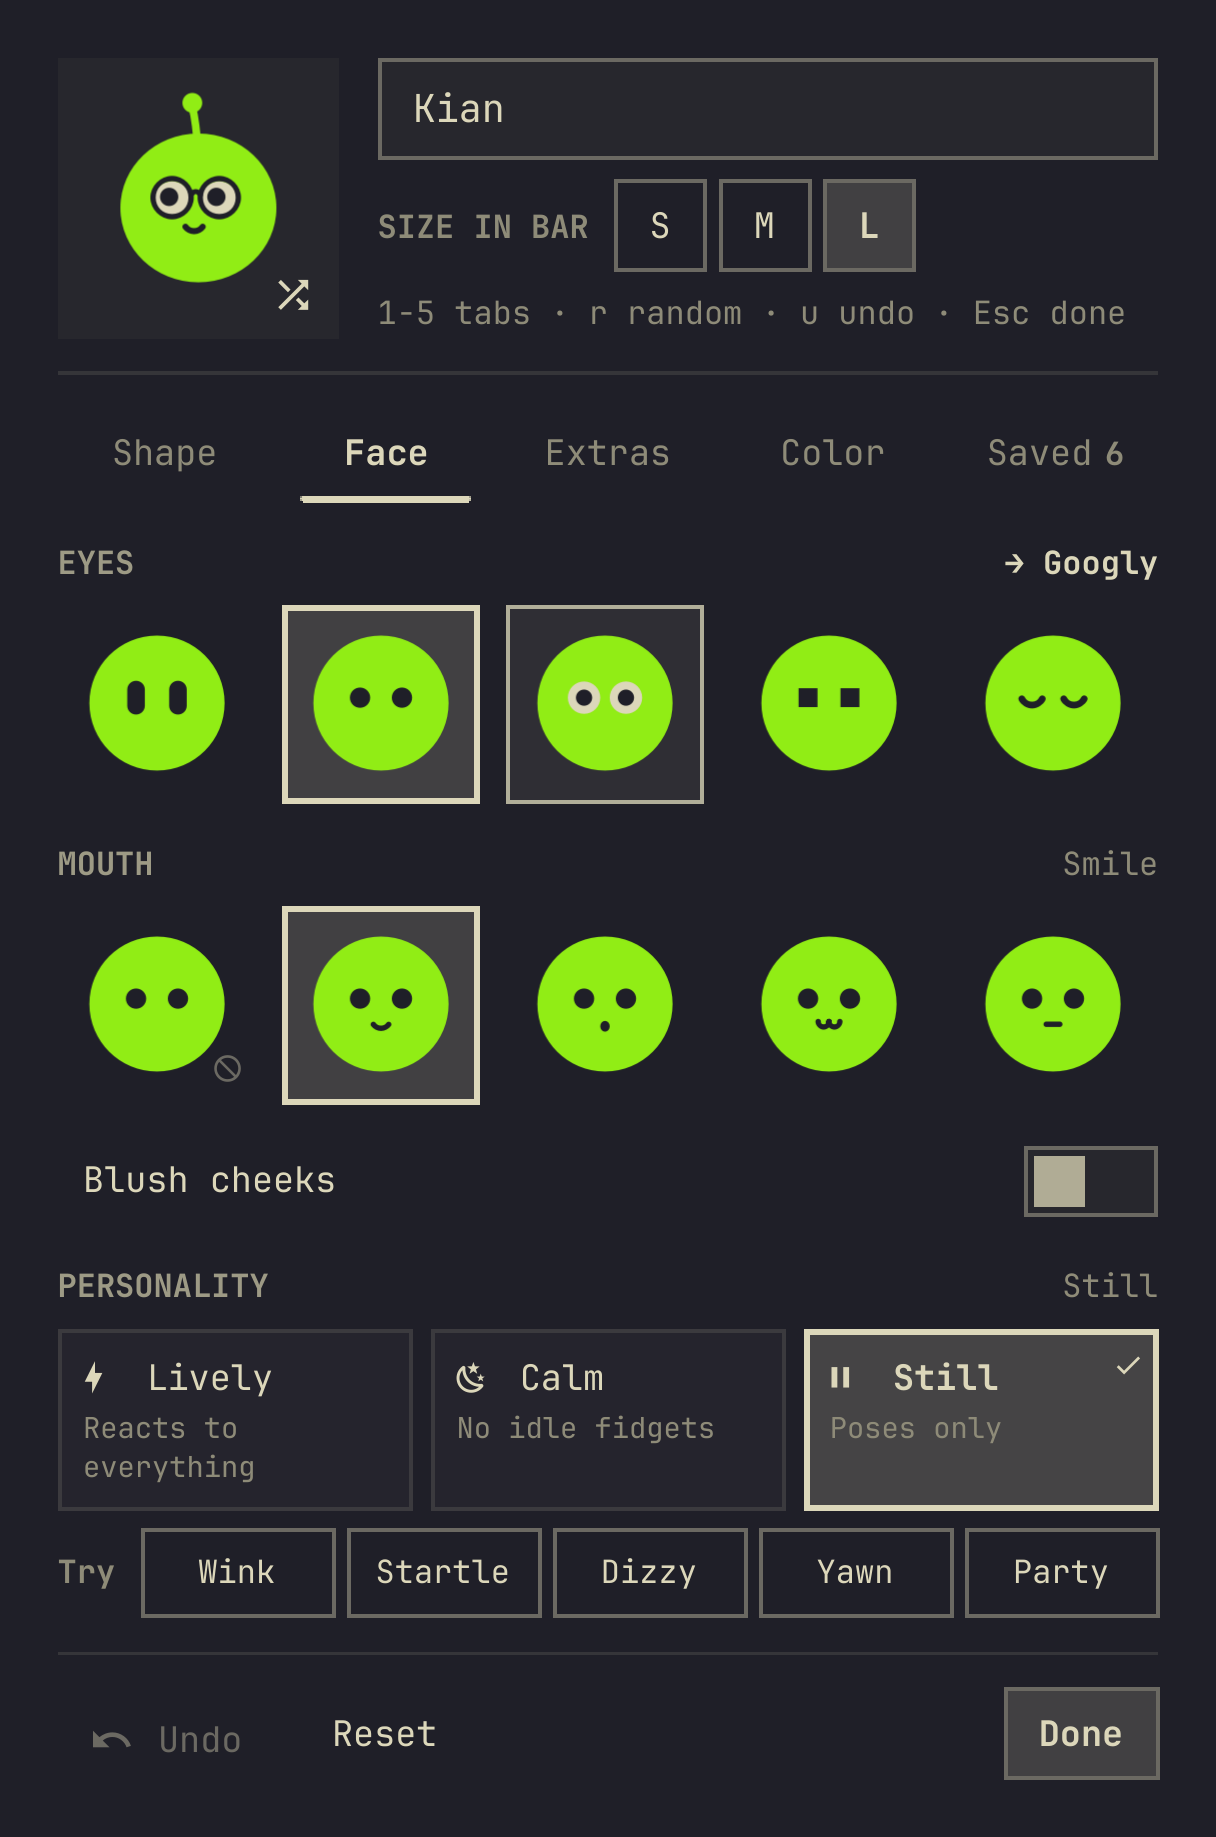
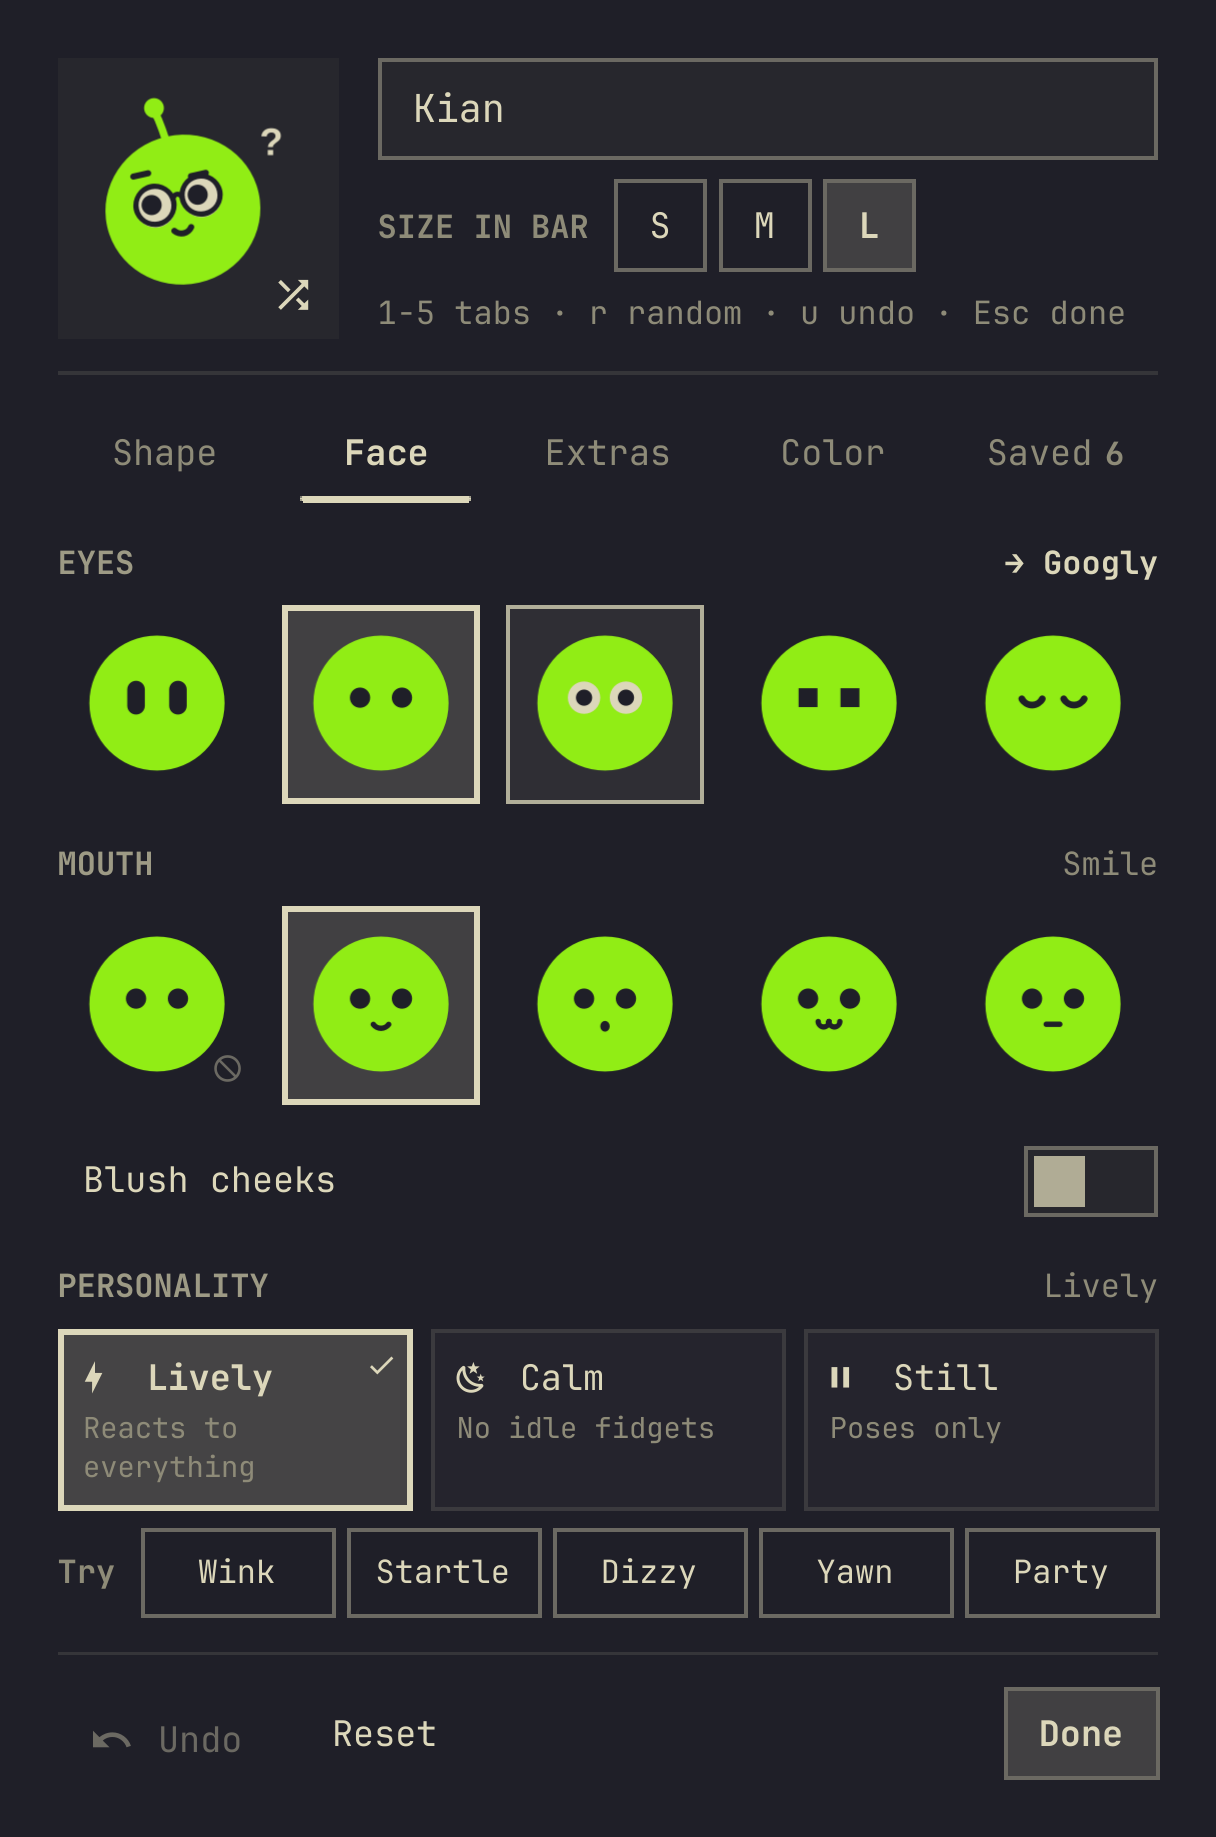
Release 2.1.0: changelog, README matches the code, fresh docs
- manifest: version 2.1.0
- CHANGELOG.md: 2.0.0 (Agents Pet rename + pet) and 2.1.0 (reactions,
  Pet Studio settings, personality, backup / PNG, one-line tip, dev harness)
- README: one-line tip under the name, Pet Studio layout, Try row labels,
  XDG Documents / Pictures for backup and PNG, Ctrl+Z / Backspace keys,
  per-tab editor images, `dev/run.sh check`, privacy covers backup and PNG
- docs/: regenerated with dev/run.sh docs

Changed region(s): [[0.6562, 0.6826, 0.9688, 0.8378], [0.0312, 0.7137, 0.3438, 0.8378], [0.0625, 0.031, 0.25, 0.1551]]

diff --git a/README.md b/README.md
@@ -28,37 +28,41 @@ reshape it however you like.
   tired ("z") when every subscription is maxed out, and a small confetti party when one
   comes back. Its color never changes; the limit bars still turn red as usual.
 - **Seasonal hats**: a Santa hat on Dec 24–25 and a party hat on Dec 31 / Jan 1.
-- **One calm tip banner**: live insights first (a limit near or at its cap with its reset
-  time, a quieter subscription to switch to, tokens today and per session, a late-night
-  nudge), then a pool of general tips for working with agents. It rotates slowly, pauses
-  while you hover it, and the › button jumps to the next tip.
-- **Pet settings**: click the gear in the panel header. A stage with the pet, its name and
-  its size in the bar (S / M / L) sit on top; five tabs below:
+- **One calm tip line** under the pet's name: live insights first (a limit near or at its
+  cap with its reset time, a quieter subscription to switch to, tokens today and per session,
+  a late-night nudge), then a pool of general tips for working with agents. It shows one
+  line; hover it to read the whole tip (rotation pauses meanwhile), and the › button jumps
+  to the next one. Limit alerts are shown in red.
+- **Pet settings** ("Pet Studio"): click the gear in the panel header. A stage with the
+  pet and a random (shuffle) button, its name and its size in the bar (S / M / L) sit on
+  top; five tabs below, and Undo / Reset / Done at the bottom:
   - **Shape**: body (blob, orb, squircle, drop, ghost) and style (solid or outline)
   - **Face**: eyes (capsule, dots, googly, pixel, sleepy), mouth (none, smile, surprised,
     cat, flat), blush cheeks, and the **personality**: Lively (every reaction and little
-    fidgets), Calm (reacts to you, no idle fidgets) or Still (poses only, no animation),
-    with buttons to try a few reactions on the stage
+    fidgets), Calm (reacts to you, no idle fidgets) or Still (poses only, no animated
+    reactions); a **Try** row plays Wink, Startle, Dizzy, Yawn and Party (celebrate) on the stage
   - **Extras**: head (antenna, leaf, ears, horns) and accessory (glasses, top hat, beanie,
     bow, flower)
   - **Color**: your current theme's colors (they follow theme switches), or any color from
     the custom picker / a hex code
   - **Saved**: keep the pets you make (up to 24) and wear them again in one click; copy /
     paste a pet as a short JSON code; **Back up all** writes the current pet, saved pets,
-    size and personality to `~/Documents/agents-pet-backup.json` (or `~/` when there is no
-    Documents folder) and **Restore** reads it back; **Save PNG** saves the pet as a
-    transparent 1024 px image in `~/Pictures/agents-pet-<name>.png`
+    size and personality to `agents-pet-backup.json` in your Documents folder (the XDG one,
+    usually `~/Documents`, or `~/` when there is none) and **Restore** reads it back with
+    the same checks as a pasted code; **Save PNG** saves the pet as a transparent 1024 px
+    image `agents-pet-<name>.png` in your Pictures folder (XDG, usually `~/Pictures`)
 
-  Pointing at an option tries it on the stage; a click commits it. 🎲 rolls a random look,
+  Pointing at an option tries it on the stage; a click commits it. The shuffle button rolls a random look,
   Reset goes back to the default, and Undo puts back the last random roll, reset, worn,
   removed, pasted or restored pet. The keyboard works too: arrows / hjkl move, Enter picks,
-  1-5 or [ ] switch tabs, r random, u undo, s save, c / v copy / paste a code, e edit the
-  name, x or Delete removes a saved pet, and Esc steps back (picker, then the editor, then
+  1-5 or [ ] switch tabs, r random, u (or Ctrl+Z) undo, s save, c / v copy / paste a code,
+  e edit the name, x, Delete or Backspace removes a saved pet, and Esc steps back (picker, then the editor, then
   the panel).
 
   Changes apply live and are saved to `~/.config/omarchy/agents-pet.json`.
 
-<p align="center"><img src="docs/sheet.png" width="520" alt="Bodies, eyes, head extras, accessories, moods and reactions">&nbsp;<img src="docs/editor.png" width="260" alt="Pet settings, Face tab: eye and mouth chips, blush cheeks and personality"></p>
+<p align="center"><img src="docs/sheet.png" width="520" alt="Bodies, eyes, head extras, accessories, moods and reactions">&nbsp;<img src="docs/editor.png" width="260" alt="Pet settings, Face tab: eye and mouth chips, blush cheeks, personality and the Try row"></p>
+<p align="center"><img src="docs/editor-shape.png" width="200" alt="Shape tab">&nbsp;<img src="docs/editor-extras.png" width="200" alt="Extras tab">&nbsp;<img src="docs/editor-color.png" width="200" alt="Color tab">&nbsp;<img src="docs/editor-saved.png" width="200" alt="Saved tab: saved pets, codes, backup and PNG"></p>
 
 The panel follows Omarchy's language setting: the stock panel strings ship in all 50
 Omarchy languages, and the pet's own strings in English and Brazilian Portuguese.
@@ -87,7 +91,7 @@ size-vertical = 32
 
 | Where | What |
 |---|---|
-| Gear button in the panel | Pet look, name, size and saved pets (`~/.config/omarchy/agents-pet.json`) |
+| Gear button in the panel | Pet look, name, size, personality and saved pets (`~/.config/omarchy/agents-pet.json`) |
 | Widget settings / `shell.json` → `companionName` | Fallback name when the settings haven't set one |
 | Widget settings / `shell.json` → `refreshIntervalSec`, `sync*` | Same as the stock Agents panel |
 
@@ -99,9 +103,13 @@ yawn, wake, startle, curious, dizzy, wink, sneeze, thinking, oof, sigh).
 
 The pet adds no network calls. What it touches:
 
-- `~/.config/omarchy/agents-pet.json` (your pet), and the clipboard only when you press
-  **Copy code** / **Paste code** (`wl-copy` / `wl-paste`). The code holds only the pet's name
-  and look; pasted codes are checked against the known options before use.
+- `~/.config/omarchy/agents-pet.json` (your pet, saved pets, size and personality).
+- The clipboard, only when you press **Copy code** / **Paste code** (`wl-copy` /
+  `wl-paste`). The code holds only the pet's name and look; pasted codes are checked
+  against the known options before use.
+- `agents-pet-backup.json` in your Documents folder, only when you press **Back up all**
+  (write) or **Restore** (read). Restored backups get the same checks as pasted codes.
+- `agents-pet-<name>.png` in your Pictures folder, only when you press **Save PNG**.
 
 Usage numbers come from Omarchy's own stock collectors (`omarchy-agent-usage-*`), the same
 ones the stock Agents panel runs. They read each agent's local credential files (for example
@@ -126,7 +134,7 @@ ColorPicker.qml    saturation/value square + hue strip
 ThemePalette.qml   reads the current theme's named colors
 Main.qml, Agent.qml, assets/   stock Agents plugin pieces
 i18n/              strings (stock panel strings in 50 languages, pet strings en + pt-BR)
-dev/               isolated harness (run.sh), deploy.sh
+dev/               isolated harness (run.sh, Harness.qml), deploy.sh
 docs/              images generated by dev/run.sh
 ```
 
@@ -142,9 +150,14 @@ dev/run.sh preview      # separate Quickshell instance with the pet and its sett
 dev/run.sh editor face  # docs/editor-face.png (any tab: shape face extras color saved)
 dev/run.sh png          # checks Save PNG, backup / restore and the editor's keys (temp folder)
 dev/run.sh docs         # regenerate the images in docs/
+dev/run.sh check        # compile every type, Panel.qml included
 git commit -am "..."    # then, when it is done:
 dev/deploy.sh           # fast-forward the installed plugin to HEAD
 ```
+
+## Changes
+
+See [CHANGELOG.md](CHANGELOG.md).
 
 ## Credits
 

diff --git a/CHANGELOG.md b/CHANGELOG.md
@@ -1,0 +1,77 @@
+# Changelog
+
+## 2.1.0 (2026-11-09)
+
+### Reactions
+
+- The pet's face is now driven by an expression model (`PetFace.js`) and reactions are data
+  clips (`PetClips.js`) played one at a time by `FacePlayer.qml`, with priorities and
+  cooldowns.
+- New reactions: yawn and doze off, wake-up stretch, startle (cursor rushing at it), curious
+  head tilt (cursor resting nearby), dizzy (too many pats), wink hello, sneeze, thinking
+  (while usage refreshes), "oof" (a subscription hits its cap) and a sigh (a limit stops
+  being close).
+- IPC `react <name>` plays a reaction by name.
+- The bar pet stays cheap: no blink timers, still poses only, except short celebrate / oof.
+
+### Pet Studio (pet settings)
+
+- The settings are rebuilt: a stage with the pet and a random (shuffle) button, the name
+  and the size in the bar on top; **Shape**, **Face**, **Extras**, **Color** and **Saved** tabs below; Undo,
+  Reset and Done at the bottom.
+- Pointing at an option (mouse or keyboard) tries it on the stage; a click commits it.
+  Undo puts back the last random roll, reset, worn, removed, pasted or restored pet.
+- Keyboard shortcuts: arrows / hjkl, Enter, 1-5 or [ ] for tabs, r, u (or Ctrl+Z), s, c / v,
+  e, x / Delete / Backspace, and Esc steps back one level.
+- Eye and mouth chips show the whole pet; while the settings are open, only the pet being edited
+  is shown.
+
+### Personality
+
+- Face tab: **Lively** (every reaction and little fidgets), **Calm** (reacts to you, no idle
+  fidgets) or **Still** (poses only, no animated reactions), shown as three cards.
+- A Try row previews Wink, Startle, Dizzy, Yawn and Party (celebrate) on the stage.
+
+### Backup and PNG
+
+- **Back up all** writes the current pet, saved pets, size and personality to
+  `agents-pet-backup.json` in your Documents folder (XDG, or `~`); **Restore** reads it back
+  with the same checks as pasted codes.
+- **Save PNG** saves the pet as a transparent 1024 px image in your Pictures folder (XDG).
+- Saved pets are capped at 24.
+
+### Panel
+
+- The tip box is now one line under the pet's name: hover it to read the whole tip, › for
+  the next one. Limit alerts stay red.
+- The hero pet is centered on the name, token count and tip line.
+
+### Development
+
+- `dev/run.sh`: an isolated Quickshell harness (never touches the running bar) with offscreen
+  captures of the docs images, a demo GIF, a `png` mode that checks PNG export, backup /
+  restore and editor keys in a temp folder, and a `check` mode that compiles every type,
+  `Panel.qml` included.
+- `dev/deploy.sh` fast-forwards the installed plugin to the committed HEAD, refuses broken
+  QML, and restarts the shell once.
+- `AGENTS.md` describes the workflow.
+
+## 2.0.0 (2026-11-09)
+
+The plugin becomes **Agents Pet** (`gusthx.agents-pet`), built on Omarchy's stock Agents panel.
+
+- The headless chat, model picker and their settings are gone; the companion is now a
+  flat, sculptable pet drawn in one Canvas from a "look" (body, eyes, mouth, head extra,
+  accessory, style, cheeks, color).
+- The bar icon is the pet itself, sized from the bar height.
+- In the panel it breathes, blinks and follows the cursor across the screen; click it for a
+  pat (squish, heart, a hop after a few).
+- Moods from the limits: worried when one is close, tired when every subscription is maxed
+  out, confetti when one comes back. Dozes off when the mouse is still.
+- Seasonal hats: Santa hat on Dec 24–25, party hat on Dec 31 / Jan 1.
+- Live tips (limits with reset times, a quieter subscription, tokens today and per session,
+  a late-night nudge) plus general agent tips, with a › next-tip button.
+- Pet settings with sizes (S / M / L), accessories, theme colors that follow theme switches,
+  a color picker / hex code, saved pets and copy / paste as a short JSON code.
+- Own IPC target and i18n catalog (stock panel strings in 50 languages, pet strings in
+  English and Brazilian Portuguese). The repository root is the plugin folder.
